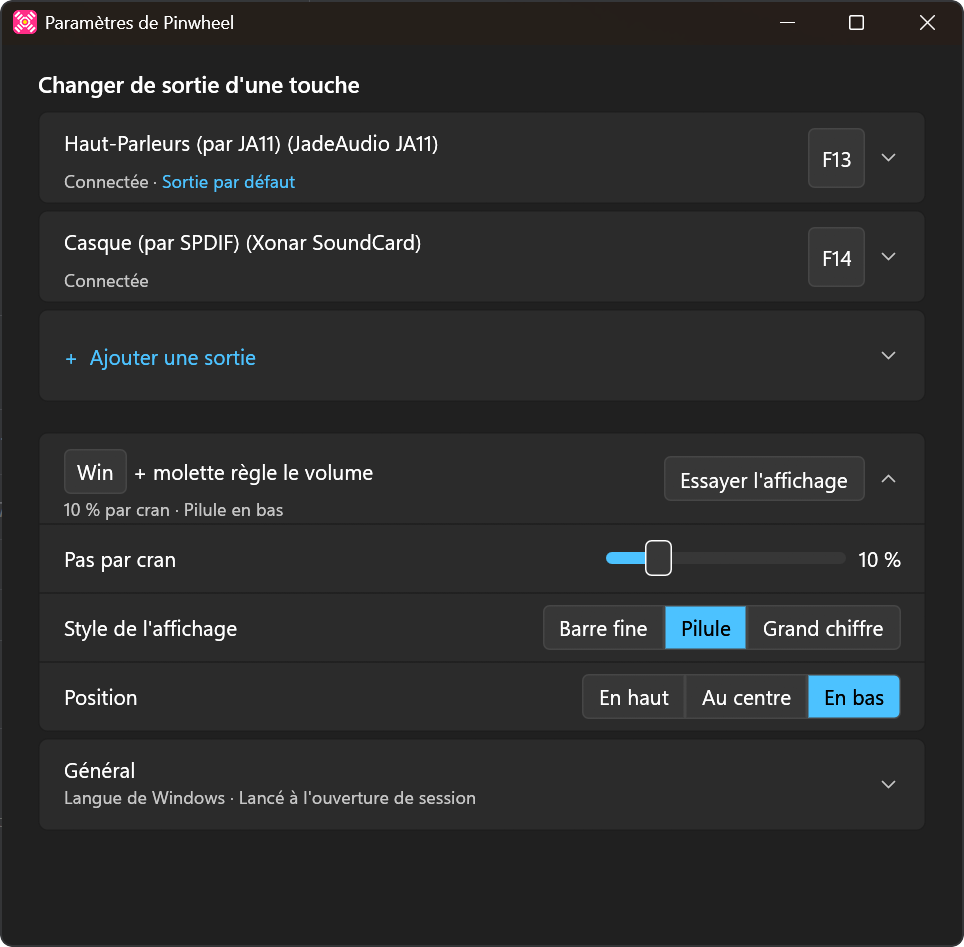
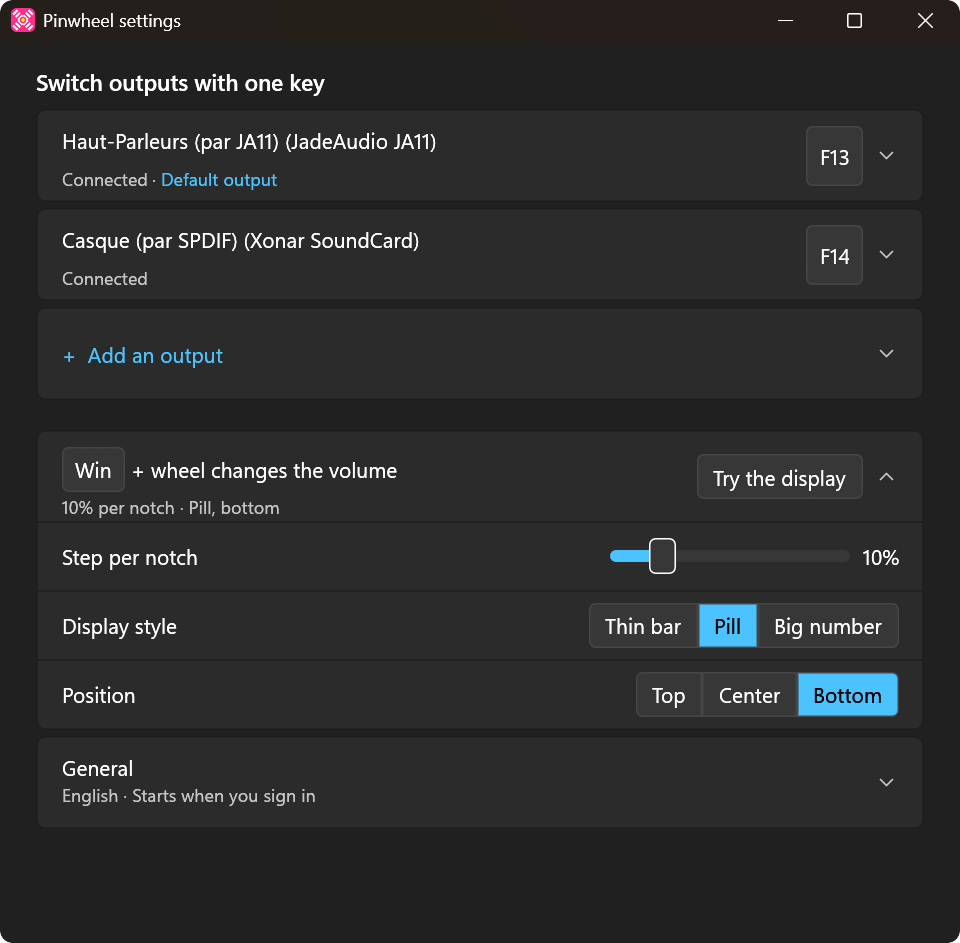
Show the settings window in English in the README

diff --git a/README.md b/README.md
@@ -20,7 +20,7 @@
 </p>
 
 <p align="center">
-  <img src="docs/images/settings.png" width="640" alt="The settings window, in French: two outputs with their keys F13 and F14, the first one marked as the default output, then the Win + wheel card open on the step, display style and position, and the General card">
+  <img src="docs/images/settings.png" width="640" alt="The settings window: two outputs with their keys F13 and F14, the first one marked as the default output, then the Win + wheel card open on the step, display style and position, and the General card">
 </p>
 
 ## What it does
@@ -52,7 +52,7 @@ If you use Volume2, quit it and remove it from startup: with both running, Win +
 - Each output has its card. Open it to change or clear its shortcut, to use the output for calls as well, or to remove it from the list.
 - Changes are saved and applied right away.
 
-<img src="docs/images/settings-output.png" width="480" alt="An output's card open, in French: its shortcut F13 with Change and Clear buttons, the switch to use it for calls as well, and Remove from the list">
+<img src="docs/images/settings-output.png" width="480" alt="An output's card open: its shortcut F13 with Change and Clear buttons, the switch to use it for calls as well, and Remove from the list">
 
 ## Files
 
